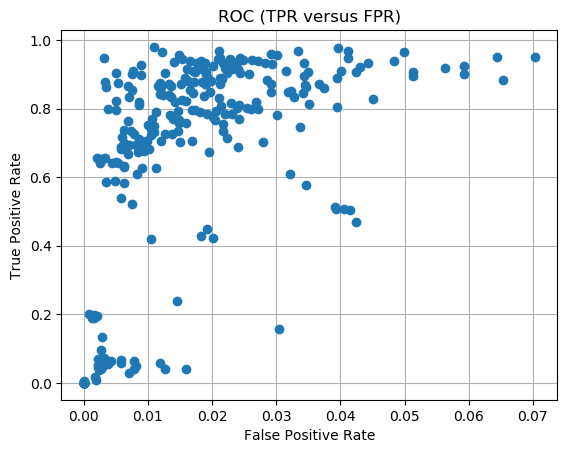
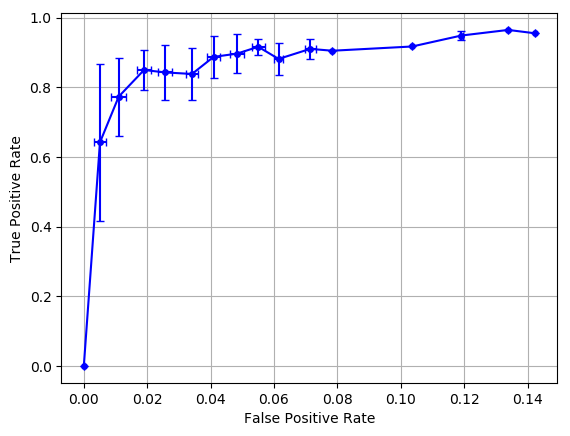
Improve filtering algorithm

diff --git a/filter.py b/filter.py
@@ -42,7 +42,7 @@ class detection:
         img = self.apply_filter(img)
         img = cv2.cvtColor(img, cv2.COLOR_BGR2GRAY)
 
-        _, threshold = cv2.threshold(img, 10, 100, 0)
+        _, threshold = cv2.threshold(img, 50, 100, 0)
         contours, _ = cv2.findContours(threshold, cv2.RETR_TREE, cv2.CHAIN_APPROX_SIMPLE)
         img = cv2.imread('WashingtonOBRace/img_{}.png'.format(self.train_index))
 
@@ -54,30 +54,33 @@ class detection:
             width = np.max(contour[:, 0, 0]) - np.min(contour[:, 0, 0])
             height = np.max(contour[:, 0, 1]) - np.min(contour[:, 0, 1])
 
-            if height > 2 * width:
-                heighest = np.argmax(contour[:, 0, 1])
-                lowest = np.argmin(contour[:, 0, 1])
+            heighest = np.argmax(contour[:, 0, 1])
+            lowest = np.argmin(contour[:, 0, 1])
 
-                top_outer = np.array([contour[heighest, 0, 0], contour[heighest, 0, 1]], dtype=np.float)
-                bottom_outer = np.array([contour[lowest, 0, 0], contour[lowest, 0, 1]], dtype=np.float)
+            top_outer = np.array([contour[heighest, 0, 0], contour[heighest, 0, 1]], dtype=np.float)
+            bottom_outer = np.array([contour[lowest, 0, 0], contour[lowest, 0, 1]], dtype=np.float)
 
-                center_outer = 0.5 * (top_outer + bottom_outer)
-                center_x = 0.5 * (np.min(contour[:, 0, 0]) + np.max(contour[:, 0, 0]))
+            center_outer = 0.5 * (top_outer + bottom_outer)
+            center_x = 0.5 * (np.min(contour[:, 0, 0]) + np.max(contour[:, 0, 0]))
 
-                parallel = top_outer - bottom_outer
-                bottom_extrapolated = center_outer - parallel
-                top_extrapolated = center_outer + parallel
+            parallel = top_outer - bottom_outer
+            bottom_extrapolated = center_outer - parallel
+            top_extrapolated = center_outer + parallel
 
-                left_pillar = True
+            # cv2.drawContours(img, [contour], -1, (0,255,0), 3)
 
-                # Right pillar has outer edge right from center
-                left_pillar = top_outer[0] < center_x
+            # if np.any(bottom_extrapolated < 0.0) or np.any(top_extrapolated < 0.0):
+            #     continue
 
-                top_extrapolated = (int(top_extrapolated[0]), int(top_extrapolated[1]))
-                bottom_extrapolated = (int(bottom_extrapolated[0]), int(bottom_extrapolated[1]))
+            # Right pillar has outer edge right from center
+            left_pillar = top_outer[0] < center_x
 
+            top_extrapolated = (int(top_extrapolated[0]), int(top_extrapolated[1]))
+            bottom_extrapolated = (int(bottom_extrapolated[0]), int(bottom_extrapolated[1]))
 
-                pillars.append([left_pillar, top_extrapolated, bottom_extrapolated, height])
+            # img[bottom_extrapolated[1]:top_extrapolated[1], bottom_extrapolated[0]:top_extrapolated[0], :] = [0, 255, 0]
+
+            pillars.append([left_pillar, top_extrapolated, bottom_extrapolated, height])
 
         used_right_pillars = []
         color = (0, 0, 255)
@@ -86,6 +89,12 @@ class detection:
 
         for i in range(len(pillars)):
             leftpillar = pillars[i]
+            penalties = []
+            outer_polygons = []
+            inner_polygons = []
+
+            topleft = np.array(leftpillar[1])
+            bottomleft = np.array(leftpillar[2])
 
             if leftpillar[0]:
                 for j in range(0, len(pillars)):
@@ -97,8 +106,6 @@ class detection:
                         rightpillar[3] < 1.25 * leftpillar[3] and \
                         rightpillar[3] > 0.75 * leftpillar[3]:
 
-                        topleft = np.array(leftpillar[1])
-                        bottomleft = np.array(leftpillar[2])
                         topright = np.array(rightpillar[1])
                         bottomright = np.array(rightpillar[2])
 
@@ -110,6 +117,9 @@ class detection:
                         width = bottomright[0] - bottomleft[0]
                         height = topleft[1] - bottomleft[1]
 
+                        if width < 30:
+                            continue
+
                         # Calculate lengths of outer edges
                         edge_length = np.zeros(4)
                         edge_length[0] = np.sqrt(np.sum((topright - topleft) ** 2))
@@ -117,40 +127,29 @@ class detection:
                         edge_length[2] = np.sqrt(np.sum((bottomleft - bottomright) ** 2))
                         edge_length[3] = np.sqrt(np.sum((bottomright - topright) ** 2))
 
-                        if (topleft[0] < 2 and bottomleft[0] < 2) or \
-                            width < 30 or \
-                            width > height * 20 or \
-                            width < height // 20 or \
-                            np.absolute(topleft[1] - topright[1]) > 35 or \
-                            np.std(edge_length) > 20:
-                            continue
+                        penalty = np.std(edge_length) / np.average(edge_length)
 
                         used_right_pillars.append(j)
+                        penalties.append(penalty)
+                        outer_polygons.append([*bottomleft, *topleft, *topright, *bottomright])
+                        inner_polygons.append([*bottomleft_inner, *topleft_inner, *topright_inner, *bottomright_inner])
 
-        for i in pillars:
-            if i[0]:
-                leftpillar = i
-                for j in pillars:
-                    if not j[0] and j[3] < 1.25 * i[3] and j[3] > 0.75 * i[3]:
-                        rightpillar = j
+                penalties = np.array(penalties)
+                if len(penalties) < 1 or np.min(penalties) > 0.15:
+                    continue
 
-                        topleft = leftpillar[1]
-                        bottomleft = leftpillar[2]
-                        topright = rightpillar[1]
-                        bottomright = rightpillar[2]
+                best_match = np.argmin(penalties)
+                polygon_outer = outer_polygons[best_match]
+                polygon_inner = inner_polygons[best_match]
 
-                        polygon_outer = [*bottomleft, *topleft, *topright, *bottomright]
-                        polygon_inner = [*bottomleft_inner, *topleft_inner, *topright_inner, *bottomright_inner]
+                draw_img = Image.new('L', img.shape[1::-1], 0)
+                draw = ImageDraw.Draw(draw_img)
+                draw.polygon(polygon_outer, outline=1, fill=1)
+                draw.polygon(polygon_inner, outline=1, fill=0)
+                draw_img = np.array(draw_img)
 
-                        draw_img = Image.new('L', img.shape[1::-1], 0)
-                        draw = ImageDraw.Draw(draw_img)
-                        draw.polygon(polygon_outer, outline=1, fill=1)
-                        draw.polygon(polygon_inner, outline=1, fill=0)
-                        draw_img = np.array(draw_img)
-
-                        output_img = output_img + draw_img
-
-                        img[np.array(draw_img) == 1, :] = [0, 0, 255]
+                output_img = output_img + draw_img
+                img[np.array(draw_img) == 1, :] = [0, 0, 255]
 
         output_img[output_img > 1] = 1
         true_positives += np.sum(output_img * mask)
@@ -158,10 +157,13 @@ class detection:
 
         return img, true_positives / np.sum(mask), false_positives / np.sum(255 - mask)
 
-    def process(self):
+    def process(self, img_list=None):
         plot_data = []
 
-        for image in range(500):
+        if img_list == None:
+            img_list = range(500)
+
+        for image in img_list:
             img, TPR, FPR = det.detect_gate(image)
             plot_data.append((FPR, TPR))
 
